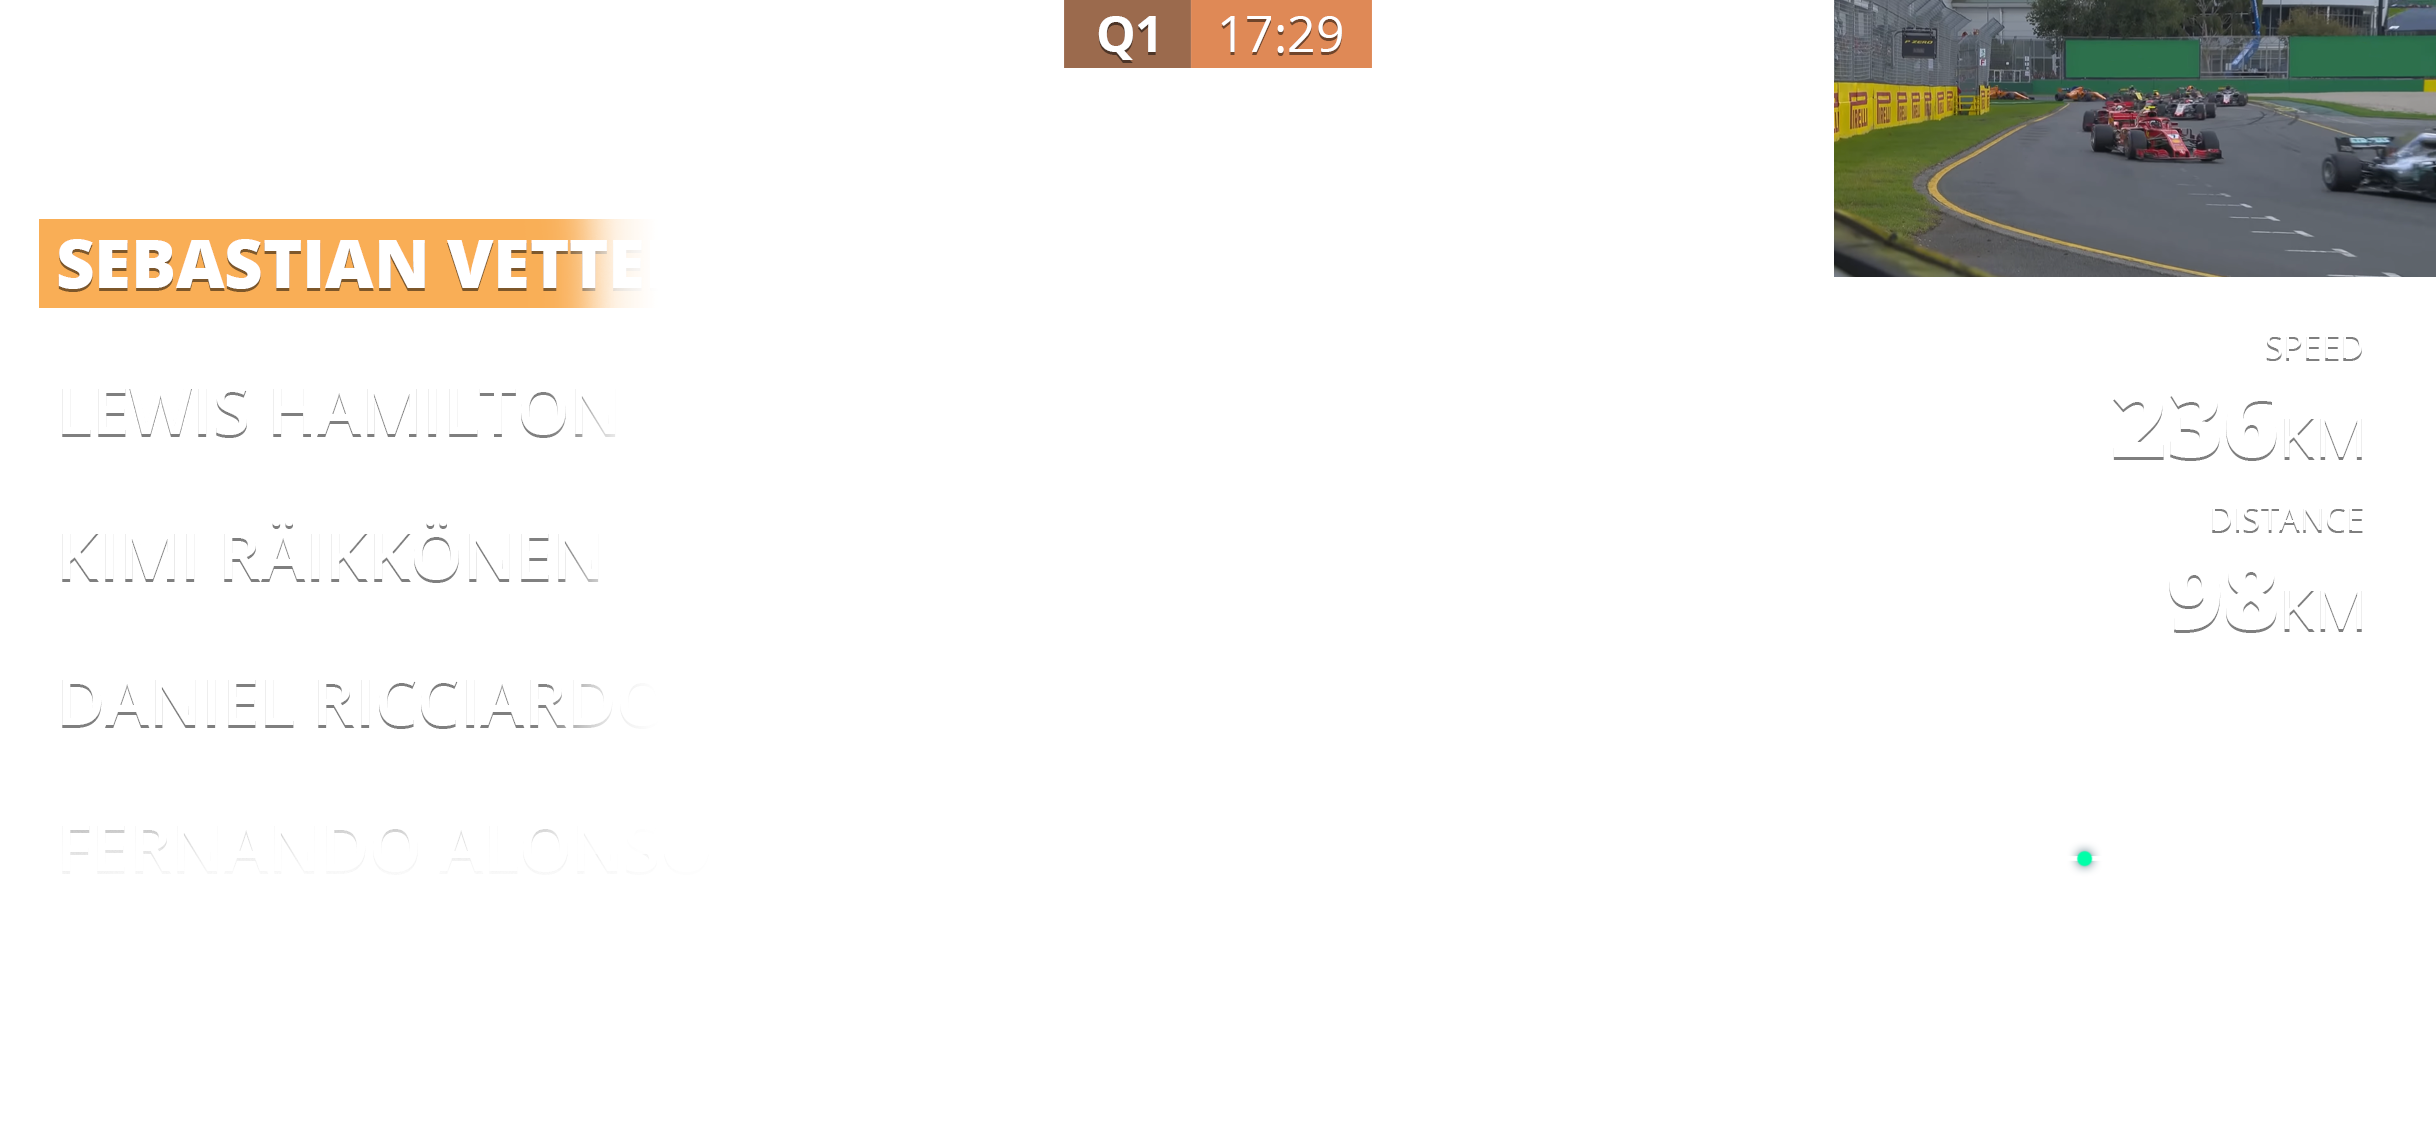
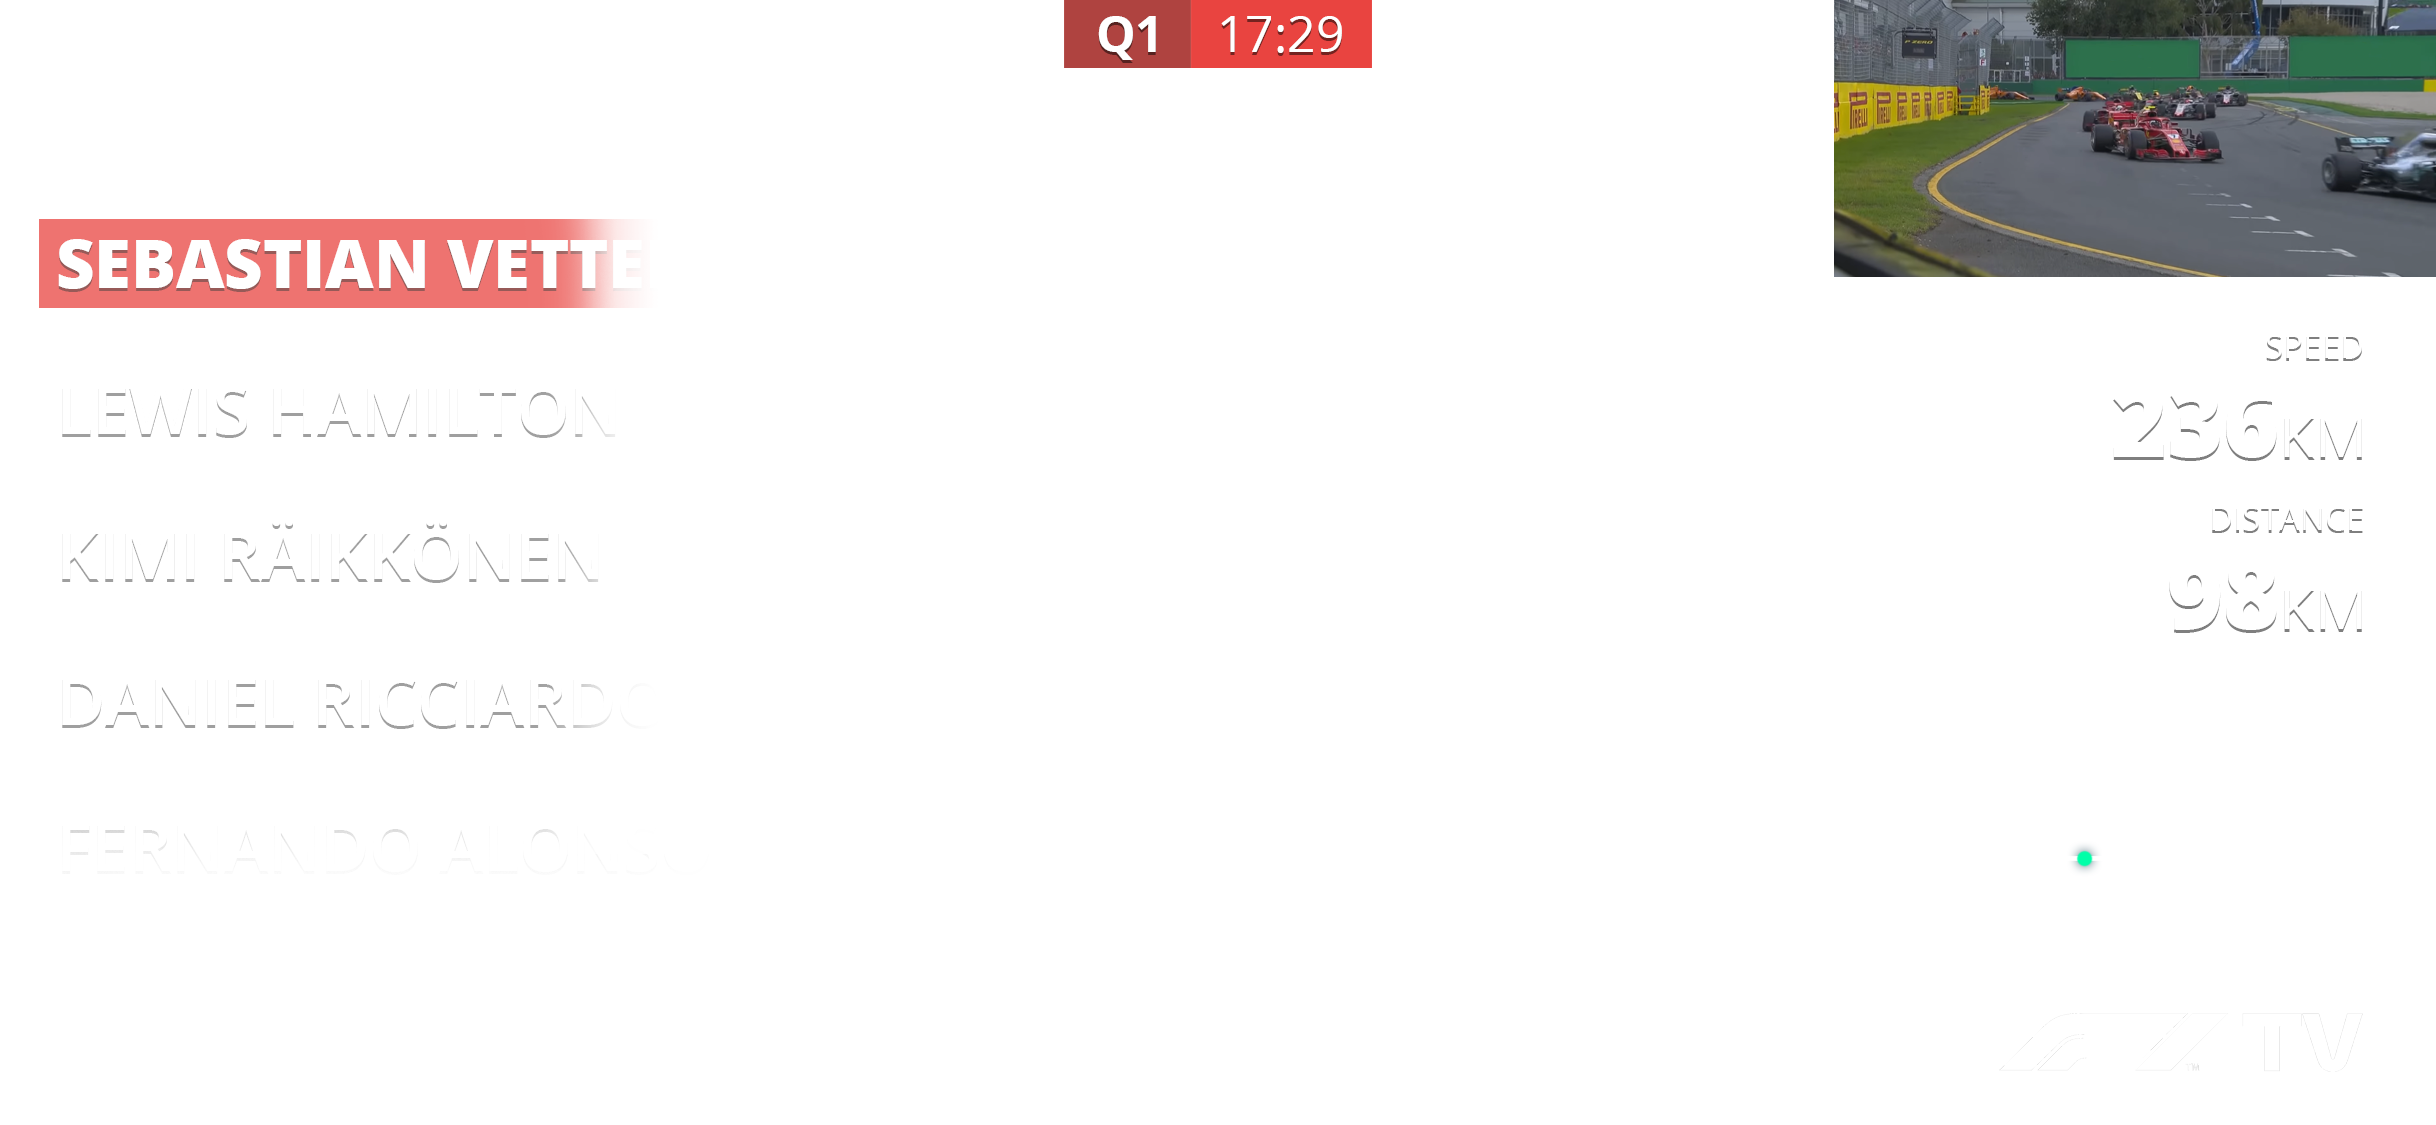
Update vod overlay for F1, update colors on HUD UI

Changed region(s): [[0.0, 0.1867, 0.2496, 0.28], [0.4368, 0.0, 0.5616, 0.0622]]

diff --git a/f1video-on-demand.html b/f1video-on-demand.html
@@ -1,0 +1,36 @@
+<html lang="en">
+    <head>
+        <meta charset="UTF-8">
+        <meta name="viewport" content="width=device-width, initial-scale=1.0">
+        <meta http-equiv="X-UA-Compatible" content="ie=edge">
+        <title>BESTSEAT360 - Home</title>
+        <script src="https://kit.fontawesome.com/a076d05399.js"></script>
+        <link rel="stylesheet" href="https://kit-free.fontawesome.com/releases/latest/css/free.min.css" media="all">
+        <link rel="stylesheet" href="/css/bestseat360_styles.css">
+        <!-- <link rel="stylesheet" href="https://cdnjs.cloudflare.com/ajax/libs/font-awesome/4.7.0/css/font-awesome.min.css"> -->
+        <script src="/js/utilities.js"></script>
+
+        <link rel="stylesheet" href="https://stackpath.bootstrapcdn.com/bootstrap/4.1.3/css/bootstrap.min.css"
+            integrity="sha384-MCw98/SFnGE8fJT3GXwEOngsV7Zt27NXFoaoApmYm81iuXoPkFOJwJ8ERdknLPMO" crossorigin="anonymous">
+        <link href="https://fonts.googleapis.com/css?family=Open+Sans:400,800&amp;display=swap" rel="stylesheet">
+        <link rel="stylesheet" href="css/f1styles.css">
+        <link rel="icon" href="assets/home/logo_icon.png" type="assets/home/png" sizes="16x16">
+    </head>
+
+    <body>
+        <main>
+            <img src="assets/f1video-ui.png" alt="F1 UI" style="width: 100%; position: absolute;">
+            <img src="assets/video-controls.png" alt="F1 UI" style="width: 100%; position: absolute; bottom: 0;">
+            <video src="assets/f1video.mp4" poster="/html/assets/home/poster.png" autoplay loop muted playsinline></video>
+        </main>
+
+        <script src="https://ajax.googleapis.com/ajax/libs/jquery/1.12.4/jquery.min.js"></script>
+        <script src="https://cdnjs.cloudflare.com/ajax/libs/popper.js/1.14.3/umd/popper.min.js"
+            integrity="sha384-ZMP7rVo3mIykV+2+9J3UJ46jBk0WLaUAdn689aCwoqbBJiSnjAK/l8WvCWPIPm49"
+            crossorigin="anonymous"></script>
+        <script src="https://stackpath.bootstrapcdn.com/bootstrap/4.1.3/js/bootstrap.min.js"
+            integrity="sha384-ChfqqxuZUCnJSK3+MXmPNIyE6ZbWh2IMqE241rYiqJxyMiZ6OW/JmZQ5stwEULTy"
+            crossorigin="anonymous"></script>
+        <script src="js/main.js"></script>
+    </body>
+</html>

diff --git a/formula1.html b/formula1.html
@@ -159,7 +159,7 @@
             <a class="row schedule-table" 
                 data-toggle="modal" 
                 data-target="#liveStreamOptions"
-                data-threesixty-race="f1video.html"
+                data-threesixty-race="f1video-on-demand.html"
                 data-youtube-race="#">
                 <div class="col-md-3 remove-padding image-column">
                     <img src="assets/home/f1image3.jpg" alt="" class="img-obj-fit">
